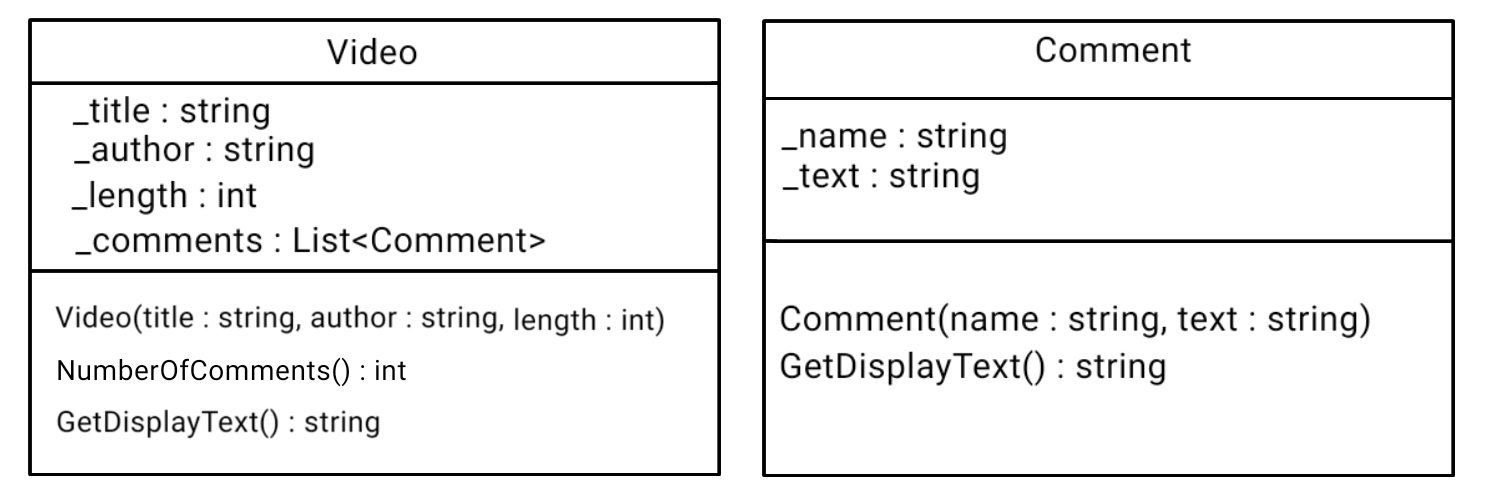
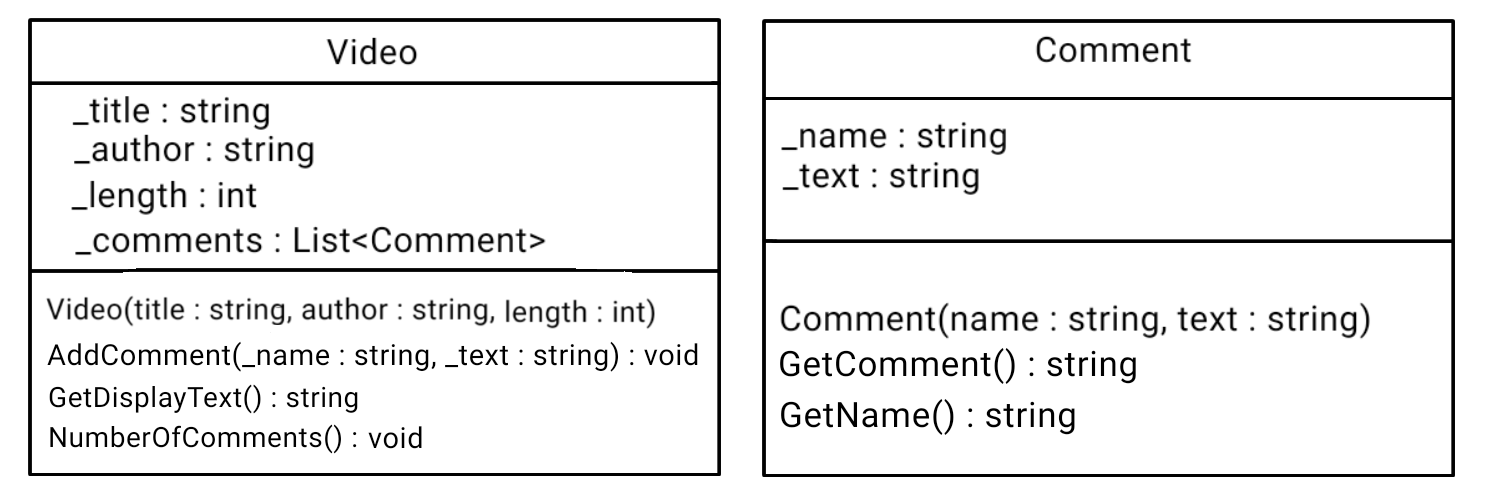
AbstractionAndEncapsulationDiagrams

diff --git a/foundation/Foundation2/Product.cs b/foundation/Foundation2/Product.cs
@@ -1,0 +1,39 @@
+using System;
+
+class Product {
+
+    private string _name;
+    private int _productId;
+    private int _price;
+    private int _quantity;
+
+    public Product(string name, int productId, int price, int quantity)
+    {
+        _name = name;
+        _productId = productId;
+        _price = price;
+        _quantity = quantity;
+    }
+
+    public double TotalCost()
+    {
+        /*
+        The total cost of this product is computed by
+        multiplying the price per unit and the quantity.
+        (If the price per unit was $3 and they bought 5 of them,
+        the product total cost would be $15.)
+        */
+
+        Console.WriteLine();
+    }
+
+    public string GetName()
+    {
+        Console.WriteLine();
+    }
+
+    public string GetProductId()
+    {
+        Console.WriteLine();
+    }
+}

diff --git a/foundation/Foundation2/Address.cs b/foundation/Foundation2/Address.cs
@@ -1,0 +1,39 @@
+using System;
+
+class Address {
+
+    private string _Address;
+    private string _city;
+    private string _state;
+    private string _country;
+
+    public Address(string Address, string city, string state, string country)
+    {
+        _Address = Address;
+        _city = city;
+        _state = state;
+        _country = country;
+    }
+
+    public bool IfInUsa()
+    {
+        /*
+        The address should have a method that can return
+        whether it is in the USA or not.
+        */
+
+        Console.WriteLine();
+    }
+
+    public string GetDisplayText()
+    {
+        /*
+        The address should have a method to return a string
+        all of its fields together in one string
+        (with newline characters where appropriate)
+        */
+
+        Console.WriteLine();
+    }
+
+}

diff --git a/foundation/Foundation2/Order.cs b/foundation/Foundation2/Order.cs
@@ -1,0 +1,38 @@
+using System;
+
+class Order {
+
+    private List<Product> _products = new List<Product>();
+    private Customer _customer;
+
+    public Order(Customer customer)
+    {
+        _customer = customer;
+    }
+
+    public double TotalPrice()
+    {
+        /*
+        The total price is calculated as the sum of
+        the total cost of each product plus a one-time
+        shipping cost.
+        */
+
+        Console.WriteLine();
+    }
+
+    public void AddProduct()
+    {
+        Console.WriteLine();
+    }
+
+    public string GetPackingLabel()
+    {
+        Console.WriteLine();
+    }
+
+    public string GetShippingLabel()
+    {
+        Console.WriteLine();
+    }
+}

diff --git a/foundation/Foundation2/Customer.cs b/foundation/Foundation2/Customer.cs
@@ -1,0 +1,28 @@
+using System;
+
+class Customer {
+
+    private string _name;
+    private Address _address;
+
+    public Customer(string name, Address address)
+    {
+        _name = name;
+        _address = address;
+    }
+
+    public string Address()
+    {
+        //Call to address
+    }
+
+    public string GetDisplayText()
+    {
+        Console.WriteLine();
+    }
+
+    public string GetName()
+    {
+        Console.WriteLine();
+    }
+}

diff --git a/foundation/Foundation1/Video.cs b/foundation/Foundation1/Video.cs
@@ -14,13 +14,18 @@ class Video {
         _length = length;
     }
 
-    public int NumberOfComments()
+    public void AddComment(string _name, string _text)
     {
-        Console.Writeline("W.I.P")
+        Console.WriteLine();
+    }
+
+    public void NumberOfComments()
+    {
+        Console.WriteLine("W.I.P")
     }
 
     public string GetDisplayText()
     {
-        Console.Writeline("WOOOOOO");
+        Console.WriteLine("WOOOOOO");
     }
 }

diff --git a/foundation/Foundation1/Comment.cs b/foundation/Foundation1/Comment.cs
@@ -11,8 +11,13 @@ class Comment {
         _text = text;
     }
 
-    public string GetDisplayText()
+    public string GetComment()
     {
-        Console.Writeline("AHHHH");
+        Console.WriteLine("AHHHH");
+    }
+
+    public string GetName()
+    {
+        Console.WriteLine();
     }
 }
